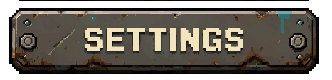
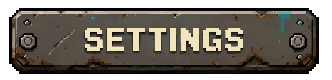
Phase 4: menu background art + fix settings button slice seam

Changed region(s): [[0.0602, 0.0, 0.9337, 0.025]]

diff --git a/js/menu.js b/js/menu.js
@@ -59,6 +59,11 @@ function drawButton(ctx, r, id, label, selected) {
   }
 }
 
+function drawBackground(ctx) {
+  const bg = Assets.image('background');
+  if (bg) ctx.drawImage(bg, 0, 0, W, H);   // else the dark fill from main.js shows through
+}
+
 function drawTitle(ctx) {
   ctx.textAlign = 'center';
   ctx.textBaseline = 'middle';
@@ -119,6 +124,7 @@ export const MainMenu = {
   },
 
   draw(ctx) {
+    drawBackground(ctx);
     drawTitle(ctx);
     const rects = this.layout();
     for (let i = 0; i < this.items.length; i++) {
@@ -138,6 +144,7 @@ export const HowToPlay = {
     return input.consume('back') || input.consume('click');
   },
   draw(ctx) {
+    drawBackground(ctx);
     const { TEXT, DIM, ACCENT, FONT } = CONFIG.HUD;
     ctx.textAlign = 'center';
     ctx.textBaseline = 'top';
@@ -175,6 +182,7 @@ export const ComingSoon = {
     return input.consume('back') || input.consume('click');
   },
   draw(ctx) {
+    drawBackground(ctx);
     const { TEXT, DIM, ACCENT, FONT } = CONFIG.HUD;
     ctx.textAlign = 'center';
     ctx.textBaseline = 'middle';

diff --git a/js/assets.js b/js/assets.js
@@ -21,8 +21,9 @@ export const Assets = {
   // Kick off loading. Call once at startup.
   load() {
     loadImage('car');
-    loadImage('scenery');   // 800x600 stitched junkyard ground (base layer)
-    loadImage('asphalt');   // small seamless tile, repeated across the track ring
+    loadImage('scenery');     // 800x600 stitched junkyard ground (base layer)
+    loadImage('asphalt');     // small seamless tile, repeated across the track ring
+    loadImage('background');  // 800x600 menu backdrop
 
     // menu buttons: a normal + hover sprite per id (missing ones fall back to
     // flat labelled rects, so the menu works before any art is in)